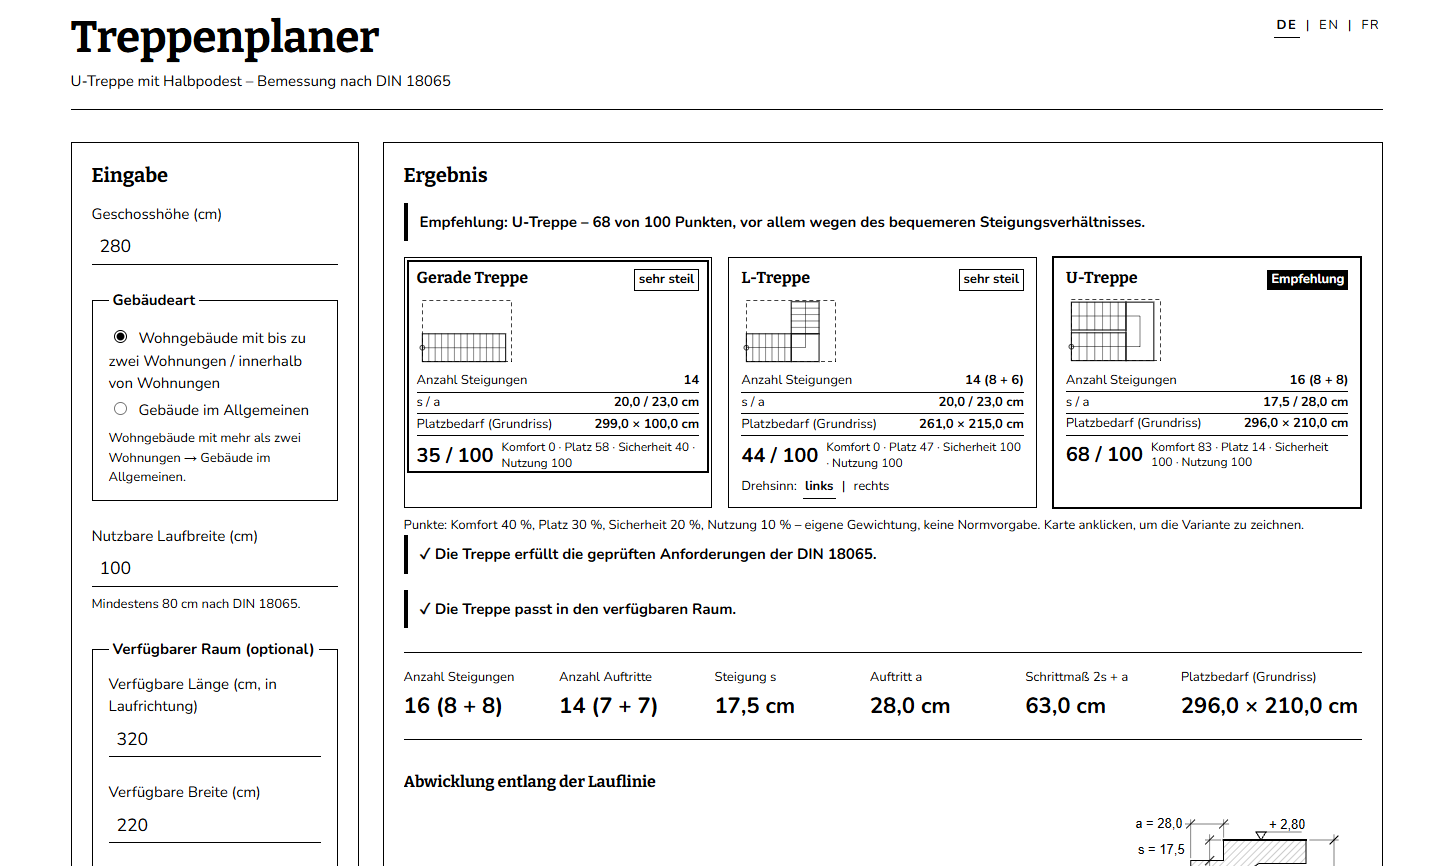
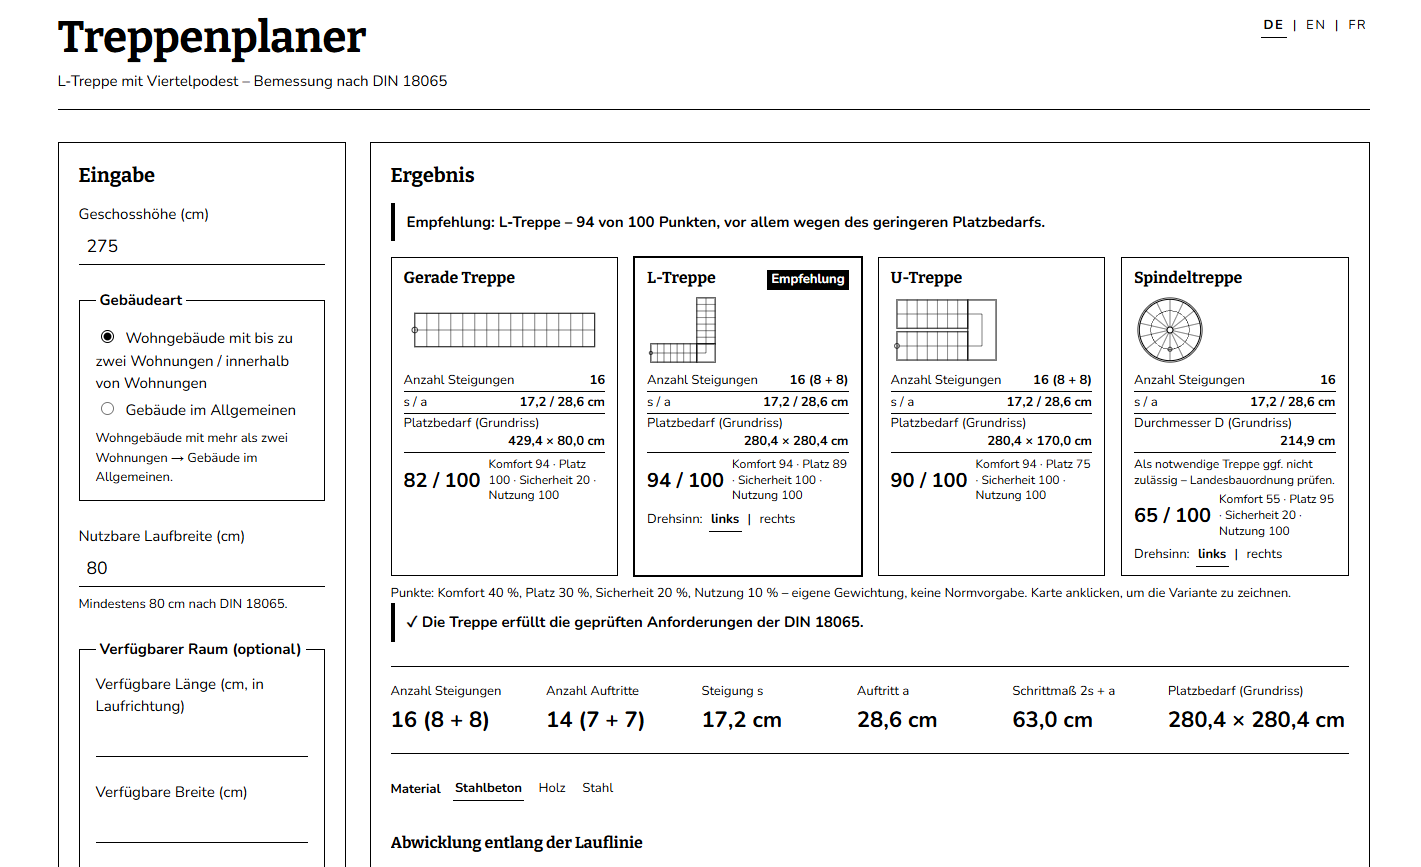
README: neuer Screenshot mit vier Variantenkarten

diff --git a/README.md b/README.md
@@ -4,7 +4,7 @@ Web-App für Architekturstudierende: Aus Geschosshöhe, Gebäudeart und verfügb
 
 **Live:** https://jade-hs-vibecoding-wpk.github.io/treppenplaner/
 
-![Treppenplaner: Eingabe links, Empfehlung und drei Variantenkarten rechts](docs/screenshot.png)
+![Treppenplaner: Eingabe links, Empfehlung und vier Variantenkarten rechts](docs/screenshot.png)
 
 *WPK Vibecoding KI-Werkstatt · Jade Hochschule · November 2026*
 
